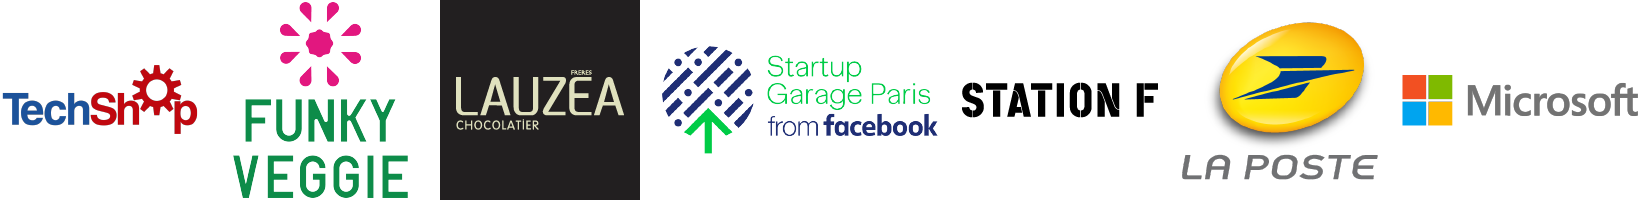
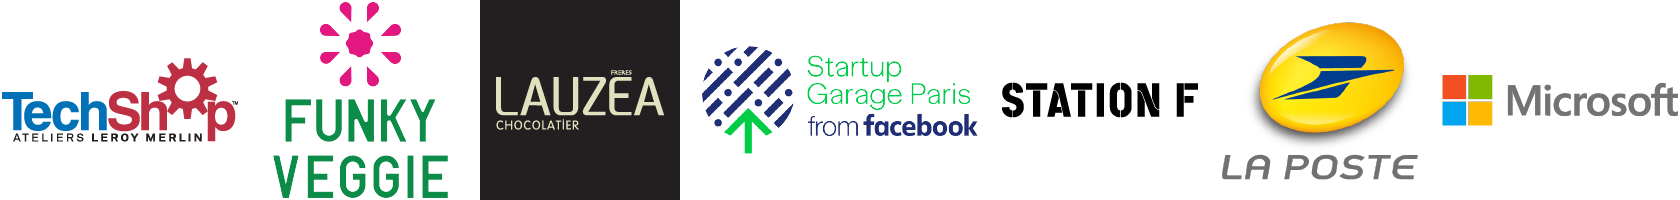
fix

Changed region(s): [[0.0, 0.0, 0.9951, 1.0], [0.7152, 0.75, 0.8396, 0.9]]

diff --git a/src/style/Pages/Icons.scss b/src/style/Pages/Icons.scss
@@ -135,14 +135,14 @@
 
 .png-100{
   background: url('../../assets/uiux_sponsors.png') 0 0 no-repeat;
-  background-size: 820px 100px;
+  background-size: 840px 100px;
   width: 100px; height: 100px;
 
-  &.techshop{background-position: -0px 0;}
-  &.funky-veggie{background-position: -110px 0;}
-  &.freres-lauzea{background-position: -220px 0;}
-  &.startup-garage{background-position: -330px 0; width: 140px;}
-  &.stationf{background-position: -480px 0;}
-  &.laposte{background-position: -590px 0;}
-  &.microsoft{background-position: -700px 0; width: 120px;}
+  &.techshop{background-position: -0px 0; width: 120px;}
+  &.funky-veggie{background-position: -130px 0;}
+  &.freres-lauzea{background-position: -240px 0;}
+  &.startup-garage{background-position: -350px 0; width: 140px;}
+  &.stationf{background-position: -500px 0;}
+  &.laposte{background-position: -610px 0;}
+  &.microsoft{background-position: -720px 0; width: 120px;}
 }
